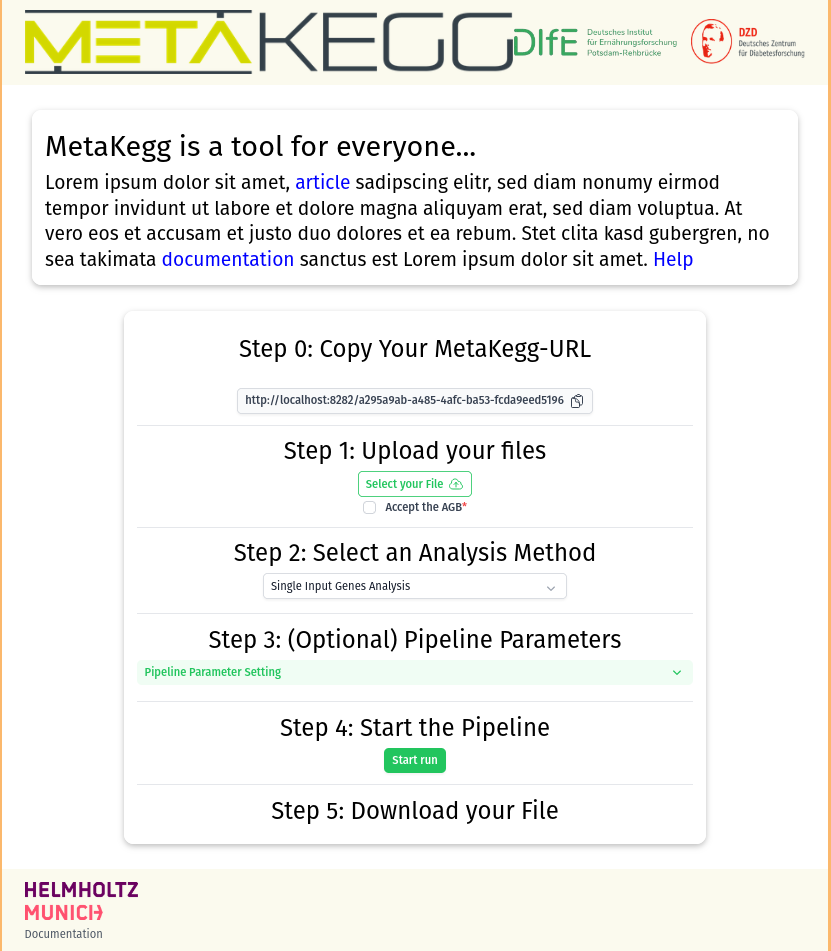
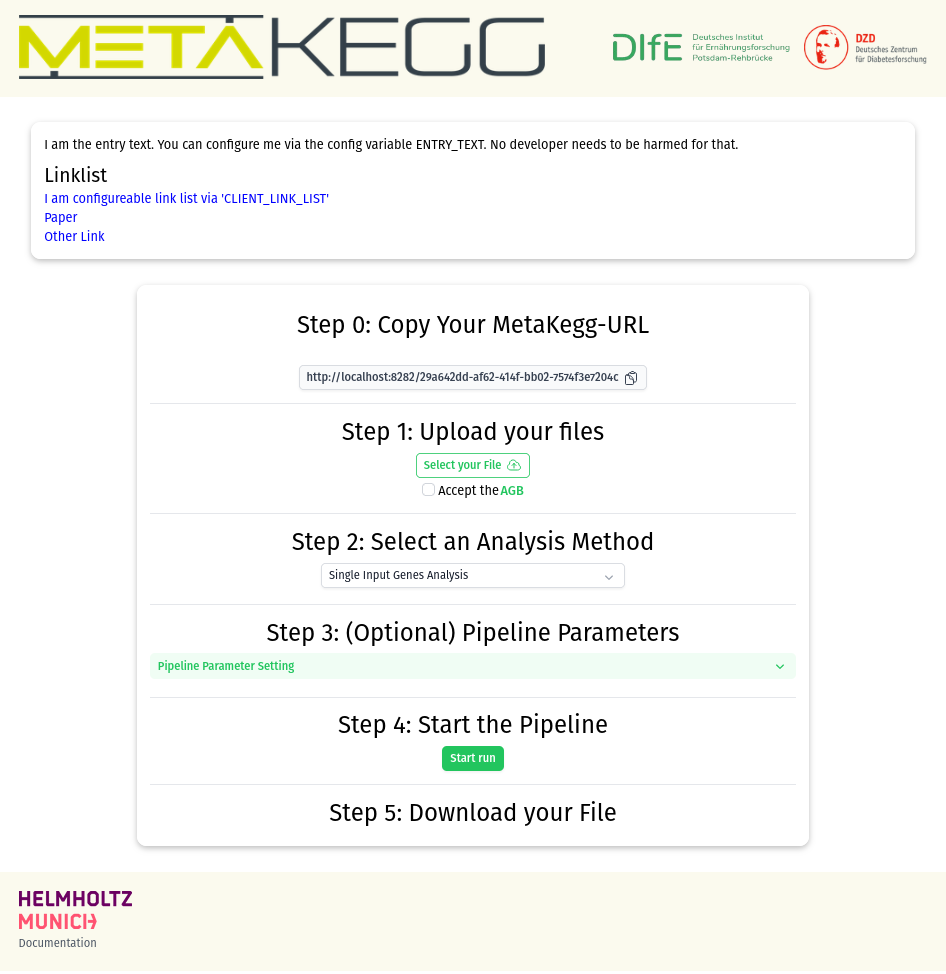
Finish touch Beta1

diff --git a/backend/mekeweserver/config.py b/backend/mekeweserver/config.py
@@ -89,7 +89,7 @@ class Config(BaseSettings):
     )
     CLIENT_ENTRY_TEXT: Optional[str] = Field(
         description="A text that will be shown at the top on the main page of the webclient",
-        default="Lorem ipsum dolor sit amet, article sadipscing elitr, sed diam nonumy eirmod tempor invidunt ut labore et dolore magna aliquyam erat, sed diam voluptua. At vero eos et accusam et justo duo dolores et ea rebum. Stet clita kasd gubergren, no sea takimata documentation sanctus est Lorem ipsum dolor sit amet. Help",
+        default="I am the entry text. You can configure me via the config variable ENTRY_TEXT. No developer needs to be harmed for that.",
     )
     CLIENT_TERMS_AND_CONDITIONS: Optional[str] = Field(
         default="We are not responsible for the content uploaded by users. Uploaded files are processed and deleted as quickly as possible. While we take measures to ensure file confidentiality, we cannot guarantee absolute security or prevent potential breaches."
